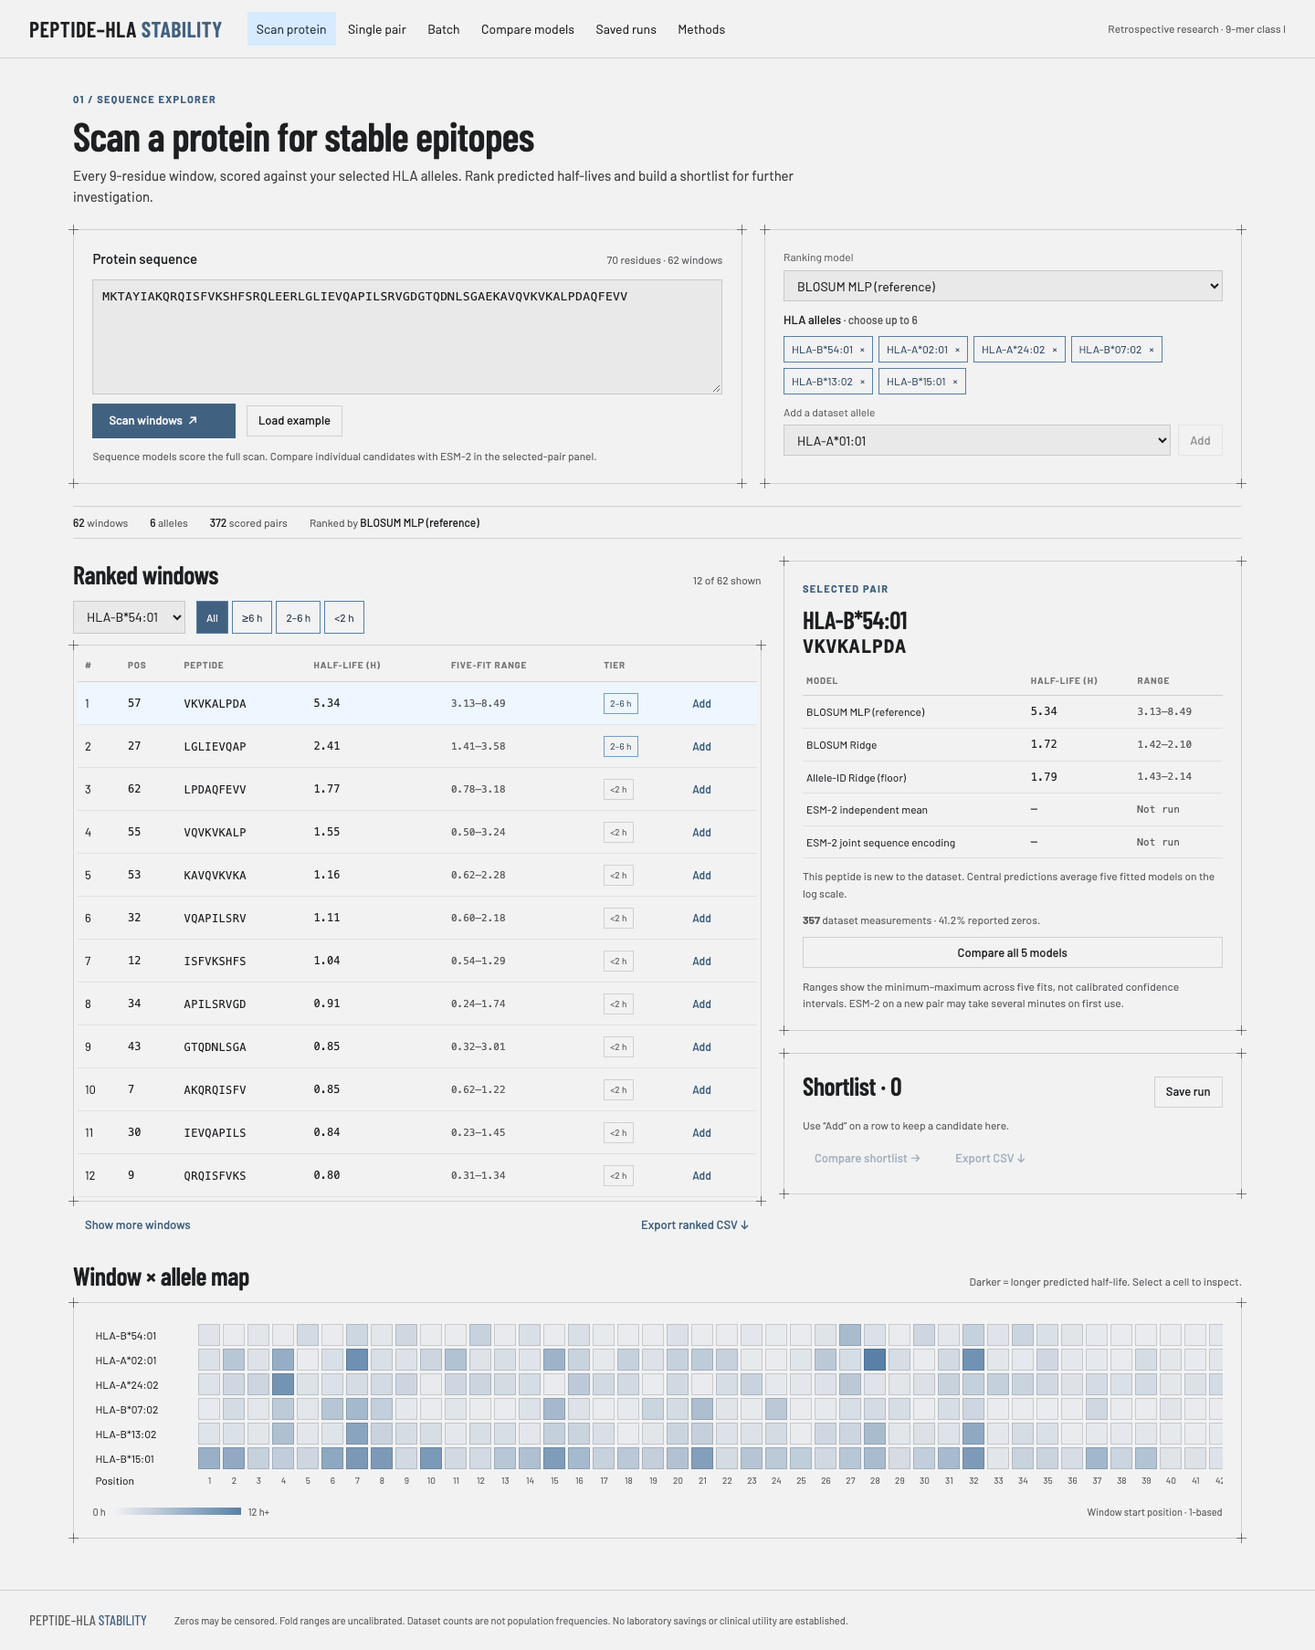
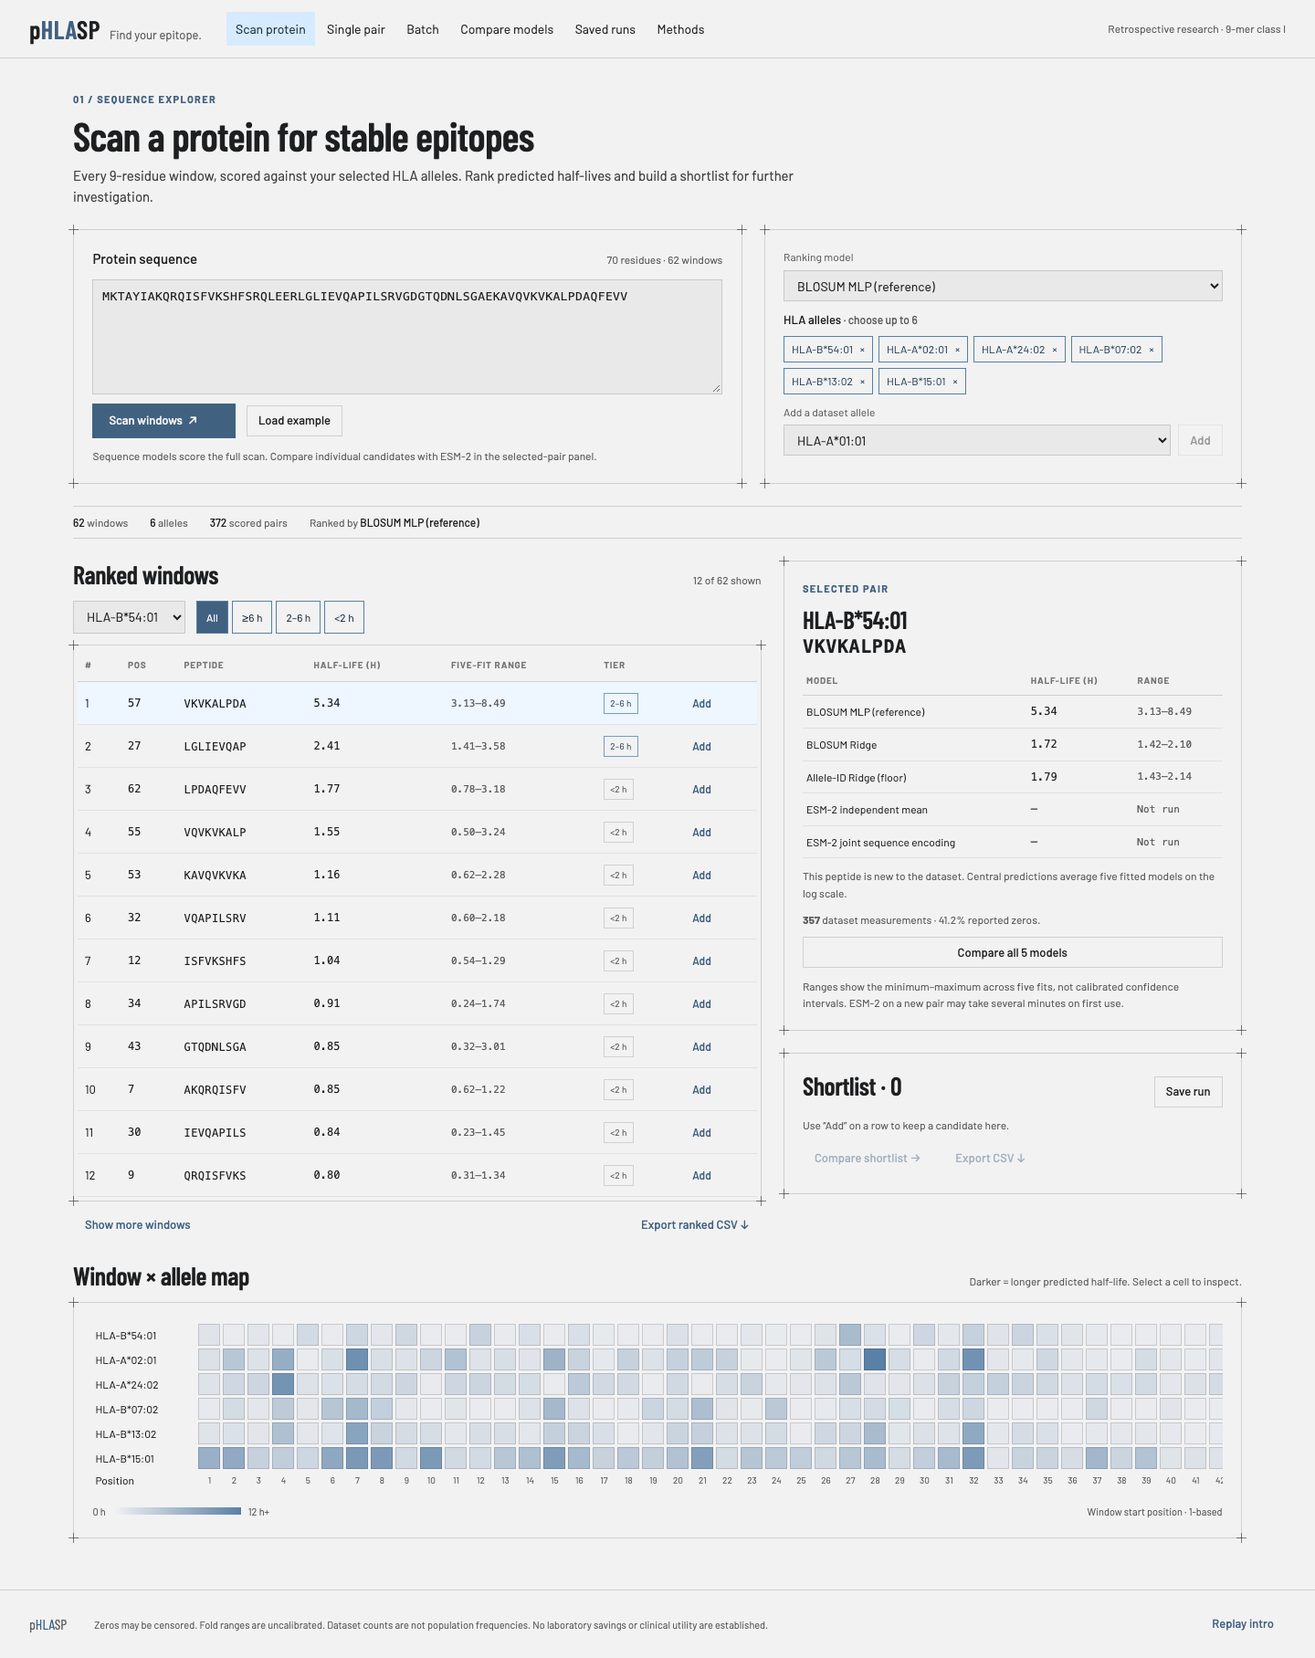
Add pHLASP intro animation from updated website layout

diff --git a/web/intro.css b/web/intro.css
@@ -1,0 +1,74 @@
+/* Opening sequence adapted from the user's “Website Layout with animation” export. */
+.brand { display: inline-flex; align-items: baseline; gap: 10px; }
+.brand .brand-wordmark { color: var(--color-text); font-size: 28px; }
+.brand .brand-tagline { font: 400 13px var(--font-body); color: var(--color-neutral-700); letter-spacing: 0; }
+footer #replay-intro { margin-left: auto; white-space: nowrap; }
+
+dialog.intro {
+  position: fixed; inset: 0; width: 100%; height: 100%; width: 100dvw; height: 100dvh;
+  max-width: none; max-height: none; margin: 0; padding: 24px;
+  border: 0; background: var(--color-bg); color: var(--color-text);
+  overflow: auto; overscroll-behavior: contain;
+  opacity: 1; transition: opacity 550ms ease;
+}
+.intro[open] { display: grid; place-items: center; }
+.intro::backdrop { background: var(--color-bg); transition: opacity 550ms ease; }
+.intro.is-leaving, .intro.is-leaving::backdrop { opacity: 0; }
+.intro-content { width: min(820px, 100%); display: flex; flex-direction: column; align-items: center; gap: 12px; }
+.intro-heading { text-align: center; }
+.intro-heading h1 { font: 700 64px/1 var(--font-heading); letter-spacing: .02em; margin: 0 0 8px; }
+.intro-heading h1 span { color: var(--color-accent-700); }
+.intro-heading p { font-size: 12px; letter-spacing: .18em; color: var(--color-accent-700); margin: 0; }
+#intro-sequence { width: 100%; height: auto; overflow: visible; font-family: var(--font-body); flex-shrink: 0; }
+.intro-tagline { display: flex; align-items: center; justify-content: center; gap: 24px; }
+.intro-tagline > span:first-child { font: 600 44px/1.1 var(--font-heading); }
+.intro-tagline .tag { letter-spacing: .1em; }
+.intro-description { margin: 0; color: var(--color-neutral-700); font-size: 11px; text-align: center; }
+#skip-intro { margin-top: 4px; min-height: 40px; }
+.intro-helix { fill: none; stroke: var(--color-accent-700); stroke-width: 1.5; stroke-dasharray: 1; }
+.intro-helix.secondary { stroke: var(--color-accent-500); stroke-width: 1; }
+.intro-label { fill: var(--color-accent-700); font-size: 12px; letter-spacing: 2px; }
+.intro-residue text { font: 400 22px var(--font-mono); fill: var(--color-text); }
+.intro-residue.is-inside text { font-weight: 600; fill: var(--color-accent-700); }
+.intro-window { transform: translateX(200px); }
+.intro-window rect { fill: var(--color-accent-100); fill-opacity: .7; stroke: var(--color-accent-700); stroke-width: 1.5; }
+.intro-window path { stroke: var(--color-accent-700); stroke-width: 1.5; }
+.intro-window text { fill: var(--color-accent-700); font-size: 11px; letter-spacing: 2px; }
+
+.intro-playing .intro-heading { animation: intro-fade 600ms both; }
+.intro-playing .intro-helix { animation: intro-draw 1000ms var(--delay, 0ms) both ease-out; }
+.intro-playing .intro-label { animation: intro-fade 500ms 800ms both; }
+.intro-playing .intro-residue { animation: intro-dock 650ms var(--delay, 0ms) both cubic-bezier(.3,.8,.3,1); }
+.intro-playing .intro-residue:not(.is-inside) text { animation: intro-dim 500ms 2700ms both; }
+.intro-playing .intro-window { animation: intro-window 1400ms 1400ms both cubic-bezier(.45,0,.2,1); }
+.intro-playing .intro-window-content { animation: intro-fade 400ms 1350ms both; }
+.intro-playing .intro-tagline { animation: intro-fade 600ms 2800ms both; }
+.intro-playing .intro-description { animation: intro-fade 400ms 2900ms both; }
+
+@keyframes intro-draw { from { stroke-dashoffset: 1; } to { stroke-dashoffset: 0; } }
+@keyframes intro-fade { from { opacity: 0; transform: translateY(8px); } to { opacity: 1; transform: translateY(0); } }
+@keyframes intro-dock { from { opacity: 0; transform: translate(var(--dx), -120px); } to { opacity: 1; transform: translate(0,0); } }
+@keyframes intro-window { 0% { transform: translateX(0); } 55% { transform: translateX(240px); } 100% { transform: translateX(200px); } }
+@keyframes intro-dim { to { opacity: .22; } }
+
+@media (max-width: 560px) {
+  dialog.intro { padding: 24px 12px; }
+  .intro-heading h1 { font-size: 54px; }
+  .intro-heading p { font-size: 10px; letter-spacing: .13em; }
+  .intro-tagline { gap: 12px; flex-wrap: wrap; }
+  .intro-tagline > span:first-child { font-size: 34px; }
+  .intro-description { max-width: 290px; }
+  footer #replay-intro { margin-left: 0; }
+}
+@media (max-height: 500px) and (min-width: 561px) {
+  dialog.intro { padding: 12px; }
+  .intro-content { gap: 4px; width: min(650px,100%); }
+  .intro-heading h1 { font-size: 38px; }
+  #intro-sequence { max-height: 190px; }
+  .intro-tagline > span:first-child { font-size: 30px; }
+}
+@media (prefers-reduced-motion: reduce) {
+  .intro, .intro::backdrop { transition: none !important; }
+  .intro-playing *, .intro-playing *::before, .intro-playing *::after { animation: none !important; }
+  .intro-residue:not(.is-inside) text { opacity: .22; }
+}

diff --git a/web/intro.js b/web/intro.js
@@ -1,0 +1,68 @@
+/* Decorative introduction only. Real scoring starts independently in workspace.js. */
+(() => {
+  'use strict';
+  const dialog = document.getElementById('intro');
+  const svg = document.getElementById('intro-sequence');
+  const reducedMotion = window.matchMedia('(prefers-reduced-motion: reduce)');
+  const NS = 'http://www.w3.org/2000/svg';
+  let finishTimer, closeTimer;
+
+  function element(name, attributes={}, text) {
+    const node = document.createElementNS(NS, name);
+    Object.entries(attributes).forEach(([key,value]) => node.setAttribute(key,value));
+    if (text !== undefined) node.textContent = text;
+    return node;
+  }
+  function wave(y, amplitude) {
+    let path = `M60 ${y}`;
+    for (let x=60;x<=660;x+=10) path += ` L${x} ${(y+amplitude*Math.sin((x-60)/38)).toFixed(1)}`;
+    return path;
+  }
+  [[88,10,150,false],[100,10,300,true],[232,-10,400,false],[220,-10,550,true]].forEach(([y,amplitude,delay,secondary]) => {
+    svg.append(element('path',{d:wave(y,amplitude),pathLength:1,
+      class:`intro-helix${secondary?' secondary':''}`,style:`--delay:${delay}ms`}));
+  });
+  svg.append(element('text',{x:60,y:62,class:'intro-label'},'α1 HELIX'));
+  svg.append(element('text',{x:60,y:276,class:'intro-label'},'α2 HELIX'));
+  const windowGroup = element('g',{class:'intro-window'});
+  const windowContent = element('g',{class:'intro-window-content'});
+  windowContent.append(element('rect',{x:60,y:124,width:360,height:72}));
+  [[60,124],[420,124],[60,196],[420,196]].forEach(([x,y]) => {
+    windowContent.append(element('path',{d:`M${x-5} ${y} H${x+5} M${x} ${y-5} V${y+5}`}));
+  });
+  windowContent.append(element('text',{x:240,y:214,'text-anchor':'middle'},'9-MER WINDOW'));
+  windowGroup.append(windowContent); svg.append(windowGroup);
+  'DGEKTYVPHLASPRWN'.split('').forEach((letter,i) => {
+    // The final 360-unit window starts 200 units (five residues) along the rail.
+    const residue = element('g',{class:`intro-residue${i>=5&&i<=13?' is-inside':''}`,
+      style:`--dx:${(i-8)*30}px;--delay:${550+i*50}ms`});
+    residue.append(element('text',{x:80+i*40,y:168,'text-anchor':'middle'},letter));
+    svg.append(residue);
+  });
+
+  function cleanup() {
+    clearTimeout(finishTimer); clearTimeout(closeTimer);
+    dialog.classList.remove('intro-playing','is-leaving');
+  }
+  function finish(immediate=false) {
+    clearTimeout(finishTimer);
+    if (!dialog.open) return;
+    if (immediate || reducedMotion.matches) { dialog.close(); cleanup(); return; }
+    if (dialog.classList.contains('is-leaving')) return;
+    dialog.classList.add('is-leaving');
+    closeTimer = setTimeout(() => { dialog.close(); cleanup(); },550);
+  }
+  function play(automatic=false) {
+    if (dialog.open || (automatic && reducedMotion.matches)) return;
+    cleanup(); dialog.showModal();
+    dialog.classList.add('intro-playing');
+    // Dock/window finish at 2.8s, tagline at 3.4s, then hold before fading.
+    finishTimer = setTimeout(() => finish(),4200);
+  }
+  dialog.addEventListener('close',cleanup);
+  dialog.addEventListener('cancel',event => {event.preventDefault();finish(true);});
+  document.getElementById('skip-intro').addEventListener('click',()=>finish(true));
+  document.getElementById('replay-intro').addEventListener('click',()=>play());
+  reducedMotion.addEventListener('change',event => { if(event.matches)finish(true); });
+  play(true);
+})();

diff --git a/web/index.html b/web/index.html
@@ -4,15 +4,26 @@
   <meta charset="utf-8">
   <meta name="viewport" content="width=device-width, initial-scale=1">
   <meta name="description" content="Scan protein sequences, compare peptide–HLA stability models, and shortlist candidates using the Rasmussen benchmark.">
-  <title>Peptide–HLA Stability · Research workspace</title>
+  <title>pHLASP · Peptide–HLA Stability Workspace</title>
   <link rel="stylesheet" href="/assets/design-system.css">
   <link rel="stylesheet" href="/assets/workspace.css">
+  <link rel="stylesheet" href="/assets/intro.css">
+  <script src="/assets/intro.js" defer></script>
   <script src="/assets/workspace.js" defer></script>
 </head>
 <body>
+<dialog id="intro" class="intro" aria-labelledby="intro-title" aria-describedby="intro-description">
+  <div class="intro-content">
+    <div class="intro-heading"><h1 id="intro-title">p<span>HLA</span>SP</h1><p>PEPTIDE–HLA STABILITY PREDICTOR</p></div>
+    <svg id="intro-sequence" viewBox="0 0 720 300" aria-hidden="true" focusable="false"></svg>
+    <div class="intro-tagline"><span>Find your epitope.</span><span class="tag tag-accent">9-MER SELECTED</span></div>
+    <p id="intro-description" class="intro-description">A schematic view of a 9-residue peptide window.</p>
+    <button id="skip-intro" type="button" class="btn btn-ghost" autofocus>Skip intro <span aria-hidden="true">→</span></button>
+  </div>
+</dialog>
 <a class="skip-link" href="#main">Skip to workspace</a>
 <header class="site-header">
-  <a class="brand" href="#scan">PEPTIDE–HLA <span>STABILITY</span></a>
+  <a class="brand" href="#scan" aria-label="pHLASP · Scan protein"><span class="brand-wordmark">p<span>HLA</span>SP</span><span class="brand-tagline">Find your epitope.</span></a>
   <nav aria-label="Workspace pages" id="navigation">
     <a href="#scan" aria-current="page">Scan protein</a><a href="#single">Single pair</a>
     <a href="#batch">Batch</a><a href="#compare">Compare models</a><a href="#runs">Saved runs</a><a href="#methods">Methods</a>
@@ -122,7 +133,7 @@
     <a href="/legacy" class="text-link">Open the original benchmark demo →</a>
   </section>
 </main>
-<footer><span>PEPTIDE–HLA <span class="accent">STABILITY</span></span><p>Zeros may be censored. Fold ranges are uncalibrated. Dataset counts are not population frequencies. No laboratory savings or clinical utility are established.</p></footer>
+<footer><span>p<span class="accent">HLA</span>SP</span><p>Zeros may be censored. Fold ranges are uncalibrated. Dataset counts are not population frequencies. No laboratory savings or clinical utility are established.</p><button id="replay-intro" type="button" class="btn btn-ghost">Replay intro</button></footer>
 <dialog id="save-dialog"><form id="save-form"><span class="eyebrow">SAVE TO THIS BROWSER</span><h2>Save this run</h2><label for="run-name">Run name</label><input id="run-name" class="input" maxlength="80" required><div class="actions"><button type="submit" class="btn btn-primary">Save run</button><button type="button" class="btn btn-secondary" id="cancel-save">Cancel</button></div></form></dialog>
 </body>
 </html>

diff --git a/scripts/check_intro.py b/scripts/check_intro.py
@@ -1,0 +1,72 @@
+"""Validate intro timing, accessibility, replay, and responsive layout in Chromium."""
+import json
+from pathlib import Path
+from playwright.sync_api import sync_playwright, expect
+
+ROOT = Path(__file__).resolve().parents[1]
+
+
+def main():
+    checks, errors = [], []
+    with sync_playwright() as p:
+        browser = p.chromium.launch()
+        context = browser.new_context(viewport={'width':1440,'height':1000})
+        page = context.new_page()
+        page.on('pageerror',lambda e:errors.append(str(e)))
+        page.goto('http://127.0.0.1:7860',wait_until='domcontentloaded')
+        expect(page.locator('#intro')).to_be_visible()
+        expect(page.locator('#skip-intro')).to_be_focused()
+        assert page.locator('.intro-helix').count()==4
+        assert page.locator('.intro-residue').count()==16
+        assert page.locator('.intro-residue.is-inside').count()==9
+        page.wait_for_function("getComputedStyle(document.querySelector('.intro-tagline')).opacity === '1'",timeout=6000)
+        expect(page.locator('#intro')).to_be_visible()
+        page.screenshot(path=str(ROOT/'reports/workspace_intro.png'))
+        expect(page.locator('#intro')).not_to_be_visible(timeout=3000)
+        expect(page.locator('#scan-summary')).to_be_visible(timeout=60000)
+        checks.append('Helices and 16 residues animate; nine align with final window; tagline appears before automatic exit')
+
+        page.locator('#replay-intro').click()
+        expect(page.locator('#intro')).to_be_visible()
+        page.locator('#skip-intro').click()
+        expect(page.locator('#intro')).not_to_be_visible()
+        expect(page.locator('#replay-intro')).to_be_focused()
+        page.locator('#replay-intro').click()
+        page.keyboard.press('Escape')
+        expect(page.locator('#intro')).not_to_be_visible()
+        checks.append('Replay restarts; Skip and Escape dismiss immediately and return keyboard focus')
+
+        page.set_viewport_size({'width':390,'height':844})
+        page.locator('#replay-intro').click()
+        page.wait_for_function("getComputedStyle(document.querySelector('.intro-tagline')).opacity === '1'")
+        page.screenshot(path=str(ROOT/'reports/workspace_intro_mobile.png'))
+        assert page.locator('#intro').evaluate('(el) => el.scrollWidth <= el.clientWidth')
+        skip=page.locator('#skip-intro').bounding_box()
+        assert skip['y']>=0 and skip['y']+skip['height']<=844
+        page.locator('#skip-intro').click()
+        page.set_viewport_size({'width':844,'height':390})
+        page.locator('#replay-intro').click()
+        skip=page.locator('#skip-intro').bounding_box()
+        assert skip['y']>=0 and skip['y']+skip['height']<=390
+        page.keyboard.press('Escape')
+        checks.append('390px portrait and 390px-high landscape preserve visible dismissal controls without horizontal overflow')
+
+        reduced = browser.new_context(viewport={'width':390,'height':844},reduced_motion='reduce')
+        static = reduced.new_page()
+        static.on('pageerror',lambda e:errors.append(str(e)))
+        static.goto('http://127.0.0.1:7860',wait_until='domcontentloaded')
+        expect(static.locator('#intro')).not_to_be_visible()
+        expect(static.locator('#scan-summary')).to_be_visible(timeout=60000)
+        static.locator('#replay-intro').click()
+        expect(static.locator('#intro')).to_be_visible()
+        assert static.locator('#intro').evaluate("el => el.getAnimations({subtree:true}).length") == 0
+        static.locator('#skip-intro').click()
+        checks.append('Reduced motion bypasses automatic intro; explicit replay is static; workspace still loads')
+        assert not errors,errors
+        browser.close()
+    record=dict(passed=True,checks=checks,browser_errors=errors)
+    (ROOT/'results/benchmark/intro_checks.json').write_text(json.dumps(record,indent=2)+'\n')
+    print(json.dumps(record,indent=2))
+
+
+if __name__=='__main__': main()

diff --git a/scripts/check_workspace.py b/scripts/check_workspace.py
@@ -21,6 +21,7 @@ def main():
         page = context.new_page()
         page.on('pageerror', lambda error: errors.append(str(error)))
         page.goto('http://127.0.0.1:7860', wait_until='networkidle')
+        expect(page.locator('#intro')).not_to_be_visible(timeout=10000)
         expect(page.locator('#scan-summary')).to_be_visible(timeout=90000)
         expect(page.locator('#ranked-rows tr')).to_have_count(12)
         expect(page.locator('.heat-cell')).to_have_count(372)
@@ -48,6 +49,7 @@ def main():
         page.get_by_role('link',name='Saved runs',exact=True).click()
         expect(page.locator('#saved-runs')).to_contain_text('QA protein scan')
         page.reload(wait_until='networkidle')
+        expect(page.locator('#intro')).not_to_be_visible(timeout=10000)
         expect(page.locator('#saved-runs')).to_contain_text('QA protein scan')
         page.locator('[data-open-run]').first.click()
         expect(page.locator('#short-count')).to_have_text('· 1')

diff --git a/web/README.md b/web/README.md
@@ -2,8 +2,12 @@
 
 The visual reference is the user-supplied **Website outline Protein binding research tool** export, specifically `Binding Stability Workspace.dc.html`. `design-system.css` and `design-system.md` preserve its supplied Industry design system. The runtime export and its hash-based simulated scoring were replaced with a same-origin application using real saved models.
 
+The later **Website Layout with animation- Protein binding research tool** export supplies the pHLASP branding and opening SVG sequence. `intro.js` / `intro.css` implement the helix drawing, residue docking and moving 9-mer window without React or the export runtime. Its timeline was corrected so the tagline is visible before the overlay closes (4.2-second sequence plus 550ms fade). Skip and Escape close immediately, Replay is available in the footer, and reduced-motion preferences bypass automatic playback. Explicit replay under reduced motion shows a static frame. The native dialog handles keyboard focus and isolates the workspace while the intro is visible; model loading runs independently.
+
 `index.html` contains the six accessible page sections, `workspace.css` adds responsive layouts using the supplied tokens, and `workspace.js` handles navigation, request state, selection, CSV upload/download, shortlists and browser-local saved runs. Barlow fonts load from Google Fonts with system fallbacks; predictions, sequences and saved runs are not sent to that font service. All scoring requests go to the local application.
 
 Run `python app.py` from the repository root. Model files must already exist, or be generated with the benchmark reproduction commands in the root README. Bulk operations use the sequence baselines; ESM-2 comparisons are explicit because new representations are slower to compute. The prototype's fake saved runs, synthetic measurement counts and random-looking model scores are not used.
 
 The complete browser smoke test is `python scripts/check_workspace.py` after installing `requirements-dev.txt` and Chromium. It exercises the real local server and creates a fresh browser context with no access to existing user profiles.
+
+`python scripts/check_intro.py` checks the timeline, Skip/Escape, replay, focus restoration, portrait/landscape layout and reduced-motion behavior. Screenshots and results are saved under `reports/workspace_intro*.png` and `results/benchmark/intro_checks.json`.

diff --git a/README.md b/README.md
@@ -67,6 +67,8 @@ The primary figure remains the distance-stratified result, including the locus s
 
 Run `python app.py` and open **http://127.0.0.1:7860**. The workspace implements the supplied “Website outline Protein binding research tool” design: protein scanning, single-pair prediction, batch CSV upload, model comparison, saved runs and methods. The original Gradio interface remains at **http://127.0.0.1:7860/legacy**.
 
+The updated animated layout adds the **pHLASP** wordmark and opening helix/residue/9-mer sequence. It finishes in about 4.75 seconds, supports Skip/Escape and a footer Replay button, and bypasses automatic playback for reduced-motion preferences. Scoring loads independently behind the intro. [Intro preview](reports/workspace_intro.png).
+
 - Scan one protein or FASTA record (9–1,000 residues) against up to six of the 72 dataset alleles. Every overlapping 9-mer keeps its original 1-based position; identical pairs share inference work. Rankings, tier filters and the clickable window × allele map use the selected sequence baseline.
 - Inspect selected pairs or single inputs across the three sequence baselines and, optionally, both ESM-2 arms. New ESM-2 inputs can require a public checkpoint download and several minutes of local inference on first use. Protein scans and batch ranking stay on the fast sequence baselines.
 - Paste or upload up to 200 `peptide,allele` CSV rows. Invalid batches are rejected before inference, with row-specific feedback. Shortlist up to 30 unique peptide–allele pairs and compare their models side by side.
@@ -82,6 +84,7 @@ Optional browser verification (while the app is running):
 pip install -r requirements-dev.txt
 python -m playwright install chromium
 python scripts/check_workspace.py
+python scripts/check_intro.py
 ```
 
 This uses an isolated browser context and writes its checks to `results/benchmark/workspace_checks.json`. The Python suite also tests FASTA/CSV validation, window-position preservation, tier boundaries, real benchmark prediction agreement, and held-out routing of novel allele pairings.
